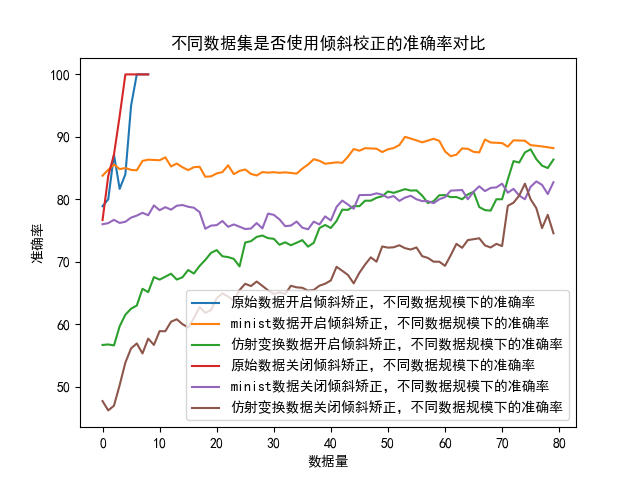
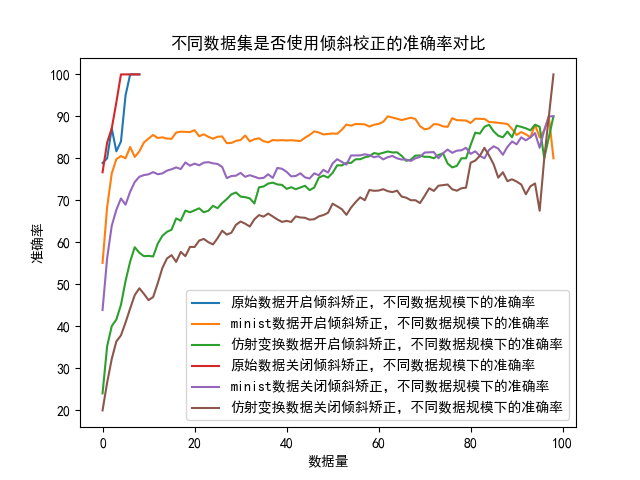
update

diff --git a/课设/homework3-minist/HW3.py b/课设/homework3-minist/HW3.py
@@ -17,17 +17,17 @@ BATCH_SIZE = 64
 DEVICE = torch.device("cuda:0" if torch.cuda.is_available() else "cpu")
 
 def main():
-    #从MINIST数据集或者进行仿射变换获取图像数据，已存放在data中，无需再次执行
+    #=====从MINIST数据集或者进行仿射变换获取图像数据，已存放在data中，无需再次执行=====#
     #get_minist_data()
     #affine_data()
 
+    # SVM方法
     # 引入控制SVM训练的全局变量，便于绘图
     global TOTAL_NUM
     global TRAIN_NUM
     global TEST_NUM
     global DESKEW_FLAG
     global DATESET_FLAG
-
     #=====开启倾斜矫正，测试不同训练集，不同数据规模下传统方法的准确率=====#
     DESKEW_FLAG = 1
     small_accuracy_deskew = []
@@ -44,7 +44,7 @@ def main():
     #-----minist_data中开启倾斜矫正，不同数据规模下的准确率-----#
     DATESET_FLAG = 1
     TOTAL_NUM = 100
-    for i in range(10, 90):
+    for i in range(1, 100):
         TRAIN_NUM = i
         TEST_NUM = TOTAL_NUM - TRAIN_NUM
         accuracy = SVM()
@@ -52,12 +52,11 @@ def main():
     #-----affine_data中开启倾斜矫正，不同数据规模下的准确率-----#
     DATESET_FLAG = 2
     TOTAL_NUM = 100
-    for i in range(10, 90):
+    for i in range(1, 100):
         TRAIN_NUM = i
         TEST_NUM = TOTAL_NUM - TRAIN_NUM
         accuracy = SVM()
         affine_accuracy_deskew.append(accuracy)
-
     #=====关闭倾斜矫正，测试不同训练集，不同数据规模下传统方法的准确率=====#
     DESKEW_FLAG = 0
     small_accuracy = []
@@ -74,7 +73,7 @@ def main():
     #-----minist_data中关闭倾斜矫正，不同数据规模下的准确率-----#
     DATESET_FLAG = 1
     TOTAL_NUM = 100
-    for i in range(10, 90):
+    for i in range(1, 100):
         TRAIN_NUM = i
         TEST_NUM = TOTAL_NUM - TRAIN_NUM
         accuracy = SVM()
@@ -82,12 +81,11 @@ def main():
     #-----affine_data中关闭倾斜矫正，不同数据规模下的准确率-----#
     DATESET_FLAG = 2
     TOTAL_NUM = 100
-    for i in range(10, 90):
+    for i in range(1, 100):
         TRAIN_NUM = i
         TEST_NUM = TOTAL_NUM - TRAIN_NUM
         accuracy = SVM()
         affine_accuracy.append(accuracy)
-
     #=====绘图，展示准确率差异=====#
     plt.rcParams['font.sans-serif'] = ['SimHei']  # 使用黑体
     fig, ax = plt.subplots()# 使用标签绘制每个列表
@@ -101,11 +99,25 @@ def main():
     ax.set_title('不同数据集是否使用倾斜校正的准确率对比')# 设置标题和标签
     ax.set_xlabel('数据量')
     ax.set_ylabel('准确率')
-    plt.show()# 显示图表
     fig.savefig("accuracy.png")
 
     #深度学习方法
-    Torch()
+    DESKEW_FLAG = 0
+    Train_Accuracy, Test_Accuracy = Torch()
+    DESKEW_FLAG = 1
+    Train_Accuracy2, Test_Accuracy2 = Torch()
+    # =====绘图，展示准确率差异=====#
+    plt.rcParams['font.sans-serif'] = ['SimHei']  # 使用黑体
+    fig1, ax1 = plt.subplots()  # 使用标签绘制每个列表
+    ax1.plot(Train_Accuracy, label='未倾斜校正，深度学习方法在训练集上的准确率')
+    ax1.plot(Test_Accuracy, label='未倾斜校正，深度学习方法在测试集上的准确率')
+    ax1.plot(Train_Accuracy2, label='倾斜校正，深度学习方法在训练集上的准确率')
+    ax1.plot(Test_Accuracy2, label='倾斜校正，深度学习方法在测试集的准确率')
+    ax1.legend()  # 向图表添加图例
+    ax1.set_title('深度学习下是否使用倾斜校正的准确率对比')  # 设置标题和标签
+    ax1.set_xlabel('EPOCH')
+    ax1.set_ylabel('准确率')
+    fig1.savefig("CNN.png")
     return
 #######################################
 #============数据集处理方式==============#
@@ -233,8 +245,9 @@ def deskew(img):
     if abs(m['mu02']) < 1e-2:
         return img.copy()#在y上的二阶中心矩很小，说明倾斜可以忽略不计
     skew = m['mu11']/m['mu02']#计算偏斜度
-    size=(20,20)   #每个数字的图像的尺寸
-    s=20
+    height, width = img.shape[:2]
+    size=(height,width)   #每个数字的图像的尺寸
+    s=width
     #怎么由倾斜度决定仿射矩阵的取值？
     M = np.float32([[1, skew, -0.5*s*skew], [0, 1, 0]])#设置仿射矩阵，用于恢复倾斜
     affine_flags = cv.WARP_INVERSE_MAP|cv.INTER_LINEAR
@@ -259,12 +272,25 @@ def hog(img):
 #######################################
 #============机器学习方法===============#
 ######################################
-#Todo:添加倾斜矫正
+
+#对张量的图像数据进行倾斜校正
+def deskew_tensor(tensor):
+    img = np.array(tensor[0])
+    img = deskew(img)
+    new_tensor = torch.tensor(img)
+    new_tensor = new_tensor.reshape((1, 28, 28))
+    return new_tensor
+
 def Torch():
     # 1. 数据准备
     #os.environ['KMP_DUPLICATE_LIB_OK']='True'
-    transform=transforms2.Compose([transforms2.ToTensor(),
-                                  transforms2.Normalize(mean=[0.5],std=[0.5])])
+    if DESKEW_FLAG == 1:#开启倾斜矫正
+        transform=transforms2.Compose([transforms2.ToTensor(),
+                                       transforms2.Lambda(deskew_tensor),
+                                       transforms2.Normalize(mean=[0.5],std=[0.5])])
+    if DESKEW_FLAG == 0:#关闭倾斜矫正
+        transform = transforms2.Compose([transforms2.ToTensor(),
+                                         transforms2.Normalize(mean=[0.5], std=[0.5])])
     train_dataset = datasets.MNIST(root = "./data/",
                                 transform=transform,
                                 train = True,
@@ -306,7 +332,9 @@ def Torch():
     optimizer = torch.optim.Adam(model.parameters())
     loss_func = torch.nn.CrossEntropyLoss() # 对于多分类一般采用的交叉熵损失函数,
     # 4. 训练模型
-    EPOCH=5
+    EPOCH=10
+    Train_Accuracy = []
+    Test_Accuracy = []
     for t in range(EPOCH):
         training_loss = 0.0
         training_correct = 0
@@ -331,8 +359,10 @@ def Torch():
         loss= float(training_loss*BATCH_SIZE/len(train_dataset))
         train_Accuracy = 100 * training_correct / len(train_dataset)
         test_Accuracy = 100 * testing_correct / len(test_dataset)
+        Train_Accuracy.append(train_Accuracy.item())
+        Test_Accuracy.append(test_Accuracy.item())
         print("Epoch {:d}/{:d}: Train Loss is:{:.4f}, Train Accuracy is:{:.4f}%, Test Accuracy is:{:.4f}".format(t+1,EPOCH,loss,train_Accuracy,test_Accuracy))
-    return
+    return Train_Accuracy, Test_Accuracy
 
 if __name__ == "__main__":
     main()

diff --git a/课设/homework3-minist/Readme.md b/课设/homework3-minist/Readme.md
@@ -1,26 +1,37 @@
-# 传统方法和深度学习方法对比  
-### 传统方法
-传统方法的原始训练数据是./data/0 到./data/9下的手写数字图片。 
-传统方法的过程为：读取图像，图像预处理，倾斜矫正，计算HOG，训练SVM，测试SVM。
-#### 读取图像
-使用glob库的golbe方法，获得所有的图像的文件名。使用cv.imread读取这些图像。
-#### 图像预处理
-使用cv.cvtColor转变为灰度图、cv.resize调整大小
-#### 倾斜矫正
-使用cv.moments获得图像的矩。图像的矩用于判断在y轴上的倾斜程度。并根据倾斜度生成一个仿射矩阵实现倾斜的矫正。  
-计算矩阵的矩使用了cv.moments方法，返回一个字典。其中：
-* mu02：y坐标的二阶中心矩，描述了在y轴上的倾斜情况。
-* mu11：x和y坐标的混合二阶中心矩。  
-使用这两个数据可以计算倾斜度，倾斜度是mu11/mu02
-#### 计算HOG
-针对图像计算出图像的梯度分布直方图
-#### 训练SVM
-#### 测试SVM
-训练的数据集规模太小。使用MINIST数据集生成一个图片数量大小为100的数据集。对比不同数据规模和是否使用倾斜矫正的准确率。  
-可以观察到使用倾斜校正的SVM方法准确率高于不使用倾斜矫正的SVM方法。数据规模越大，准确率越高，使用倾斜校正的准确率增益也越小。
-#### 传统方法的改进
-## 深度学习方法
-深度学习方法则从minist数据集进行训练和测试。  
+# 一、传统方法和深度学习方法对比  
+### 1、传统方法
+        传统方法的原始训练数据是./data/0 到./data/9下的手写数字图片。 这样子获得的数据集数据量很小，存在很大的偏差。  
+    传统方法的过程为：读取图像，图像预处理，倾斜矫正，计算图像的方向梯度直方图HOG，训练支持向量机SVM，测试SVM。
+#### 1.1 读取图像
+        使用glob库的golbe方法，获得所有的图像的文件名。然后使用cv.imread读取这些图像。
+#### 1.2 图像预处理
+        使用cv.cvtColor转变为灰度图、cv.resize调整图像的大小。严格意义上倾斜矫正也属于图像预处理。
+#### 1.3 倾斜矫正
+        使用cv.moments获得图像的矩。图像的矩用于判断在y轴上的倾斜程度。并根据倾斜度生成一个仿射矩阵实现倾斜的矫正。  
+    计算矩阵的矩使用了cv.moments方法，返回一个字典。
+        其中：
+        * mu02：y坐标的二阶中心矩，描述了在y轴上的倾斜情况。
+        * mu11：x和y坐标的混合二阶中心矩。  
+        使用这两个数据可以计算倾斜度，倾斜度是mu11/mu02
+#### 1.4 计算HOG
+        针对图像计算出图像的梯度分布直方图
+#### 1.5 训练SVM
+#### 1.6 测试SVM
+        题目给出的用于训练的数据集规模太小，每个数字10个，一共仅有100个。这直接导致模型存在较大的误差，  
+    有时因为不同的读写顺序会存在加倾斜矫正之后的数据反而准确率更低的结论。
+#### 1.7 数据集的改进
+        针对这一问题，最直观的想法就是进行数据集的改进。这里我使用了两种方法：  
+        第一种是从MINIST数据集中抽出一些的图像作为传统方法的数据集。使用MINIST数据集生成一个每种数字的图片数量为100的数据集（共1000张）。
+    对比不同数据规模和是否使用倾斜矫正时的准确率。 
+        第二种是对题目给出的数据集进行仿射变换得到新的增强之后的数据集。对数据集进行随机的-60度到60度的倾斜，0.5到1.5的放缩。  
+    也生成一个每种数字的图片数量为100的数据集（共1000张）。对比不同数据规模和是否使用倾斜矫正时的准确率。
+        最后的测试结果一并绘图为: 
+![accuracy](accuracy.png)
+<div style="text-align: center;"> 图18 </div>
+
+        可以观察到使用倾斜校正的SVM方法准确率高于不使用倾斜矫正的SVM方法。数据规模越大，准确率越高，使用倾斜校正的准确率增益也越小。
+## 2、深度学习方法
+    深度学习方法则从minist数据集进行训练和测试。  
 
 # 输出结果
 # 结论

diff --git a/课设/homework1-filter/Readme.md b/课设/homework1-filter/Readme.md
@@ -1,18 +1,18 @@
 # 输入文件
-从当前路径下读取cat.png文件作为图像输入。图像如下：
+从当前路径下读取cat.png文件作为图像输入。图像如下：  
 ![原图](cat.png)
 # 输出结果
 将自己编写的高斯模糊代码得到的结果与原图和使用cv库中的GaussianBlur方法得到的结果进行比较。结果展示如下：
 ![对比](Result.png)
-<center> 图1 </center>
+<div style="text-align: center;"> 图1 </div>
 
 将不同卷积核大小情况下，使用cv库中的GaussianBlur方法得到的结果进行对比。结果展示如下：
 ![卷积核](Kernel_size.png)
-<center> 图2 </center>  
+<div style="text-align: center;"> 图2 </div>  
 
 将不同方差情况下，使用cv库中的GaussianBlur方法得到的结果进行对比。结果展示如下：
 ![方差](Var.png)  
-<center> 图3 </center>  
+<div style="text-align: center;"> 图3 </div>  
 
 # 结论
 对比输出结果中的图1，可以发现自行编写的高斯模糊与使用cv库进行的高斯模糊效果几乎一致。

diff --git a/课设/homework2-HE/Readme.md b/课设/homework2-HE/Readme.md
@@ -5,19 +5,19 @@
 # 输出结果
 使用不同的方式对输入图片的灰度图进行直方图均衡、限制对比度自适应直方图均衡、伽马矫正，将所得的结果进行对比。展示如下：
 ![对比](Picture.png)
-<center> 图1 </center>
+<div style="text-align: center;"> 图1 </div>
 
 计算原图、经直方图均衡的图像、经限制对比度自适应直方图均衡的图像、经伽马矫正的图像的直方图。展示如下：
 ![直方图](Histogram.png)
-<center> 图2 </center>  
+<div style="text-align: center;"> 图2 </div>  
 
 调整不同的Gamma值进行Gamma矫正，结果展示如下：
 ![Gamma值](Gamma.png)  
-<center> 图3 </center>
+<div style="text-align: center;"> 图3 </div>
 
 使用多种图像对Gamma矫正和CLAHE进行测试，结果展示如下：
 ![Gamma对比CLAHE](Gamma_CLAHE.png)  
-<center> 图4 </center>
+<div style="text-align: center;"> 图4 </div>
 
 # 结论
 观察输出结果的图1不难发现，直方图均衡后的图像暗部更明显，整体更亮。
